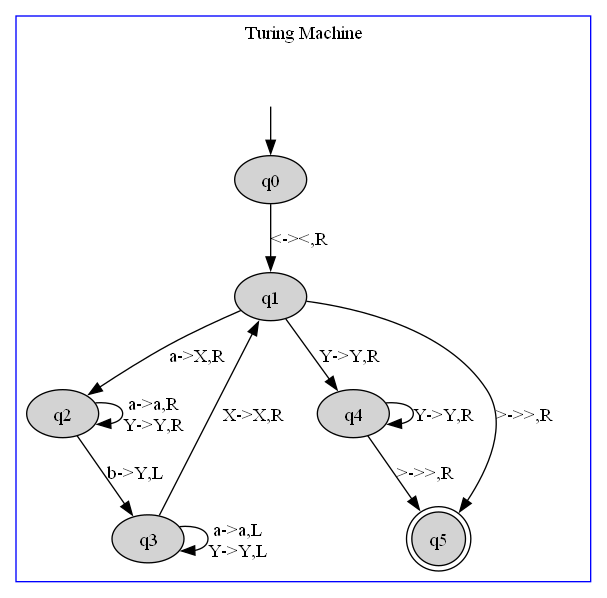
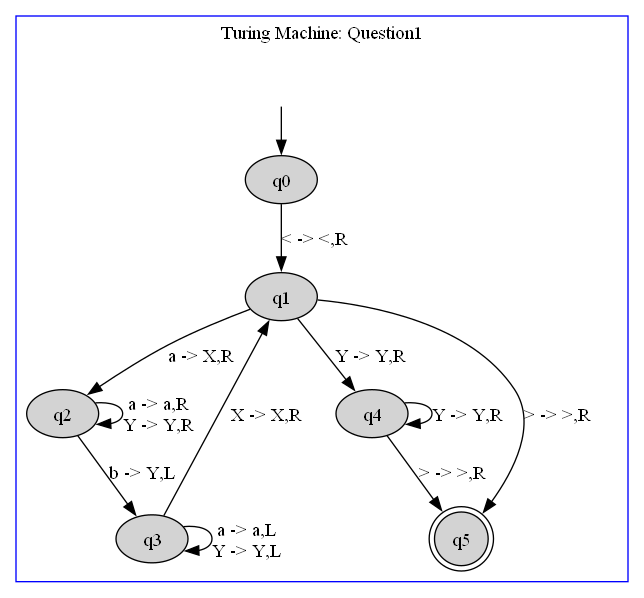
Feito a estrutura da questão 1

diff --git a/TM/turingmachine.cpp b/TM/turingmachine.cpp
@@ -183,7 +183,7 @@ std::string TuringMachine::produce_content_of_draw()
     std::string content = "digraph G {\n";
     content += "\tsubgraph cluster_1 {\n";
     content += "\t\tnode [style=filled];\n";
-    content += "\t\tlabel = \"Turing Machine\"\n"
+    content += "\t\tlabel = \"Turing Machine: "+this->nameOfTuringMachine+"\"\n"
         "\t\tcolor=blue;\n"
         "\n";
 
@@ -210,7 +210,7 @@ std::string TuringMachine::produce_content_of_draw()
                 auto entry = transitions[entryindex];
 
                 std::string tmp = std::string(1, entry.symbol_on_ribbon)+
-                        "->"+std::string(1, entry.symbol_to_write)+
+                        " -> "+std::string(1, entry.symbol_to_write)+
                         ","+std::string(1, entry.movement);
                 if (entryindex == 0)
                     s = tmp;
@@ -234,6 +234,16 @@ std::string TuringMachine::produce_content_of_draw()
     return content;
 }
 
+std::string TuringMachine::getCharTransformedAsString(char c)
+{
+    if (c == '<')
+        return std::string("&lt;");
+    else if (c == '>')
+        return std::string("&gt;");
+    else
+        return std::string(1, c);
+}
+
 std::string TuringMachine::produce_content_of_draw_considering_input
 (
     const string &message,
@@ -253,9 +263,15 @@ std::string TuringMachine::produce_content_of_draw_considering_input
     for(int index = 0; index < this->input.size();++index)
     {
         if (index == previous_input_symbol_index)
-            content += "<TD BGCOLOR=\"gray\"><FONT>"+std::string(1, this->input[index])+"</FONT></TD>\n";
+        {
+            //content += "<TD BGCOLOR=\"gray\"><FONT>"+std::string(1, this->input[index])+"</FONT></TD>\n";
+            content += "<TD BGCOLOR=\"gray\"><FONT>"+getCharTransformedAsString(this->input[index])+"</FONT></TD>\n";
+        }
         else
-            content += "<TD><FONT>"+std::string(1, this->input[index])+"</FONT></TD>\n";
+        {
+            //content += "<TD><FONT>"+std::string(1, this->input[index])+"</FONT></TD>\n";
+            content += "<TD><FONT>"+getCharTransformedAsString(this->input[index])+"</FONT></TD>\n";
+        }
     }
 
     content += "</TR>\n";
@@ -304,7 +320,7 @@ std::string TuringMachine::produce_content_of_draw_considering_input
                 auto entry = transitions[entryindex];
 
                 std::string tmp = std::string(1, entry.symbol_on_ribbon)+
-                        "->"+std::string(1, entry.symbol_to_write)+
+                        " -> "+std::string(1, entry.symbol_to_write)+
                         ","+std::string(1, entry.movement);
                 if (entryindex == 0)
                     s = tmp;

diff --git a/TM/main.cpp b/TM/main.cpp
@@ -31,6 +31,8 @@ int main(int argc, char *argv[])
     tm.configure_sample(TuringachineSamples::get_structure_of_q1());
     tm.draw_machine(local_url, tm.getNameOfTuringMachine()+".png");
 
+    tm.is_this_input_string_in_the_language_with_message("<ab>", true); //This must be accepted
+
     //return a.exec();
     return 0;
 }

diff --git a/TM/turingmachine.h b/TM/turingmachine.h
@@ -40,6 +40,8 @@ public:
 
     void is_this_input_string_in_the_language_with_message(const std::string &input, bool make_draw=false);
 
+    std::string getCharTransformedAsString(char c);
+
     std::string produce_content_of_draw();
 
     //write_acceptance_status: 0=não desenhar 1=aceito 2=não aceita
